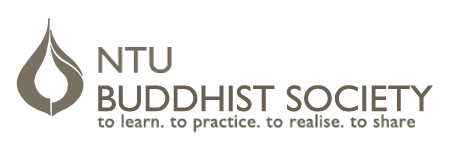
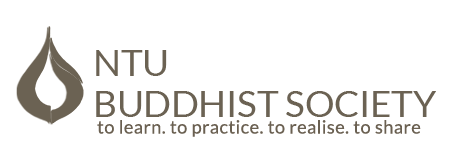
try using "Lato" webfont for consistency across devices
Also updated the images for using the same font

Changed region(s): [[0.0311, 0.1333, 0.9644, 0.9067]]

diff --git a/css/style.css b/css/style.css
@@ -1,5 +1,5 @@
 body{
-	font-family: "Myriad Pro", "Helvetica", "Verdana", sans-serif;
+	font-family: "Lato", sans-serif;
 }
 
 /*
@@ -51,6 +51,9 @@ body{
 }
 #_nav-btn-group .btn:hover {
 	background-color: #aaa397;
+}
+#logo {
+	display: inline-block;
 }
 /*
 #_nav-btn-group :last-child{

diff --git a/index.php b/index.php
@@ -21,6 +21,7 @@ $sub_btn = !empty($_GET['p_id']) ? array_key_exists(
 		<![endif]-->
 		<meta name="viewport" content="width=device-width, initial-scale=1">
 		<title>NTUBS | NTU Buddhist Society</title>
+		<link href='http://fonts.googleapis.com/css?family=Lato:400,700,400italic' rel='stylesheet' type='text/css'>
 		<link rel="stylesheet" href="css/bootstrap.min.css" type="text/css" />
 		<link rel="stylesheet" href="css/style.css" type="text/css" />
 		<link rel="shortcut icon" href="img/buddhist.ico" />
@@ -30,7 +31,7 @@ $sub_btn = !empty($_GET['p_id']) ? array_key_exists(
 			<div class="container-fluid">
 				<div class="row col-condensed">
 					<div class="col-xs-3">
-						<img src="img/navi-logo.png" class="media-object" />
+						<a id="logo" href="?page=home"><img src="img/navi-logo.png" class="media-object" /></a>
 					</div>
 					<div class="col-xs-9 clearfix">
 						<div id="_nav-btn-group" class="btn-group pull-right"><?php
